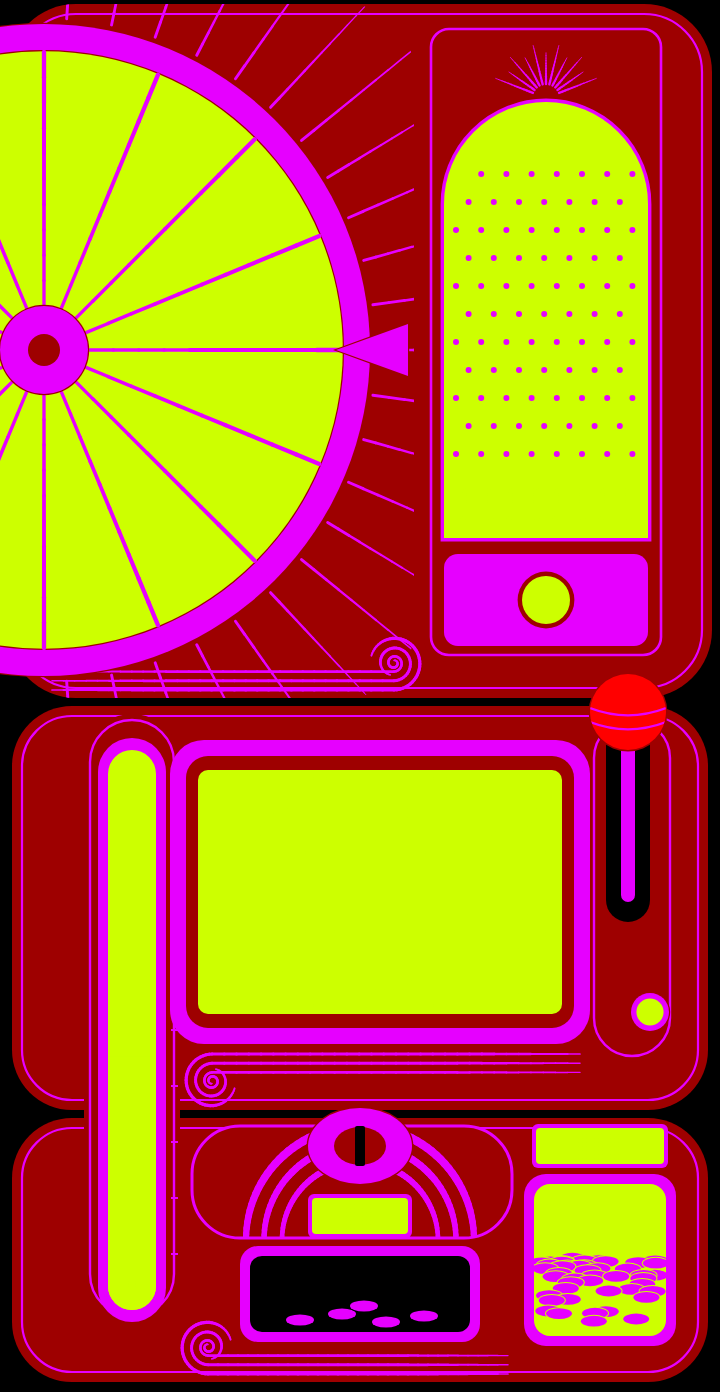
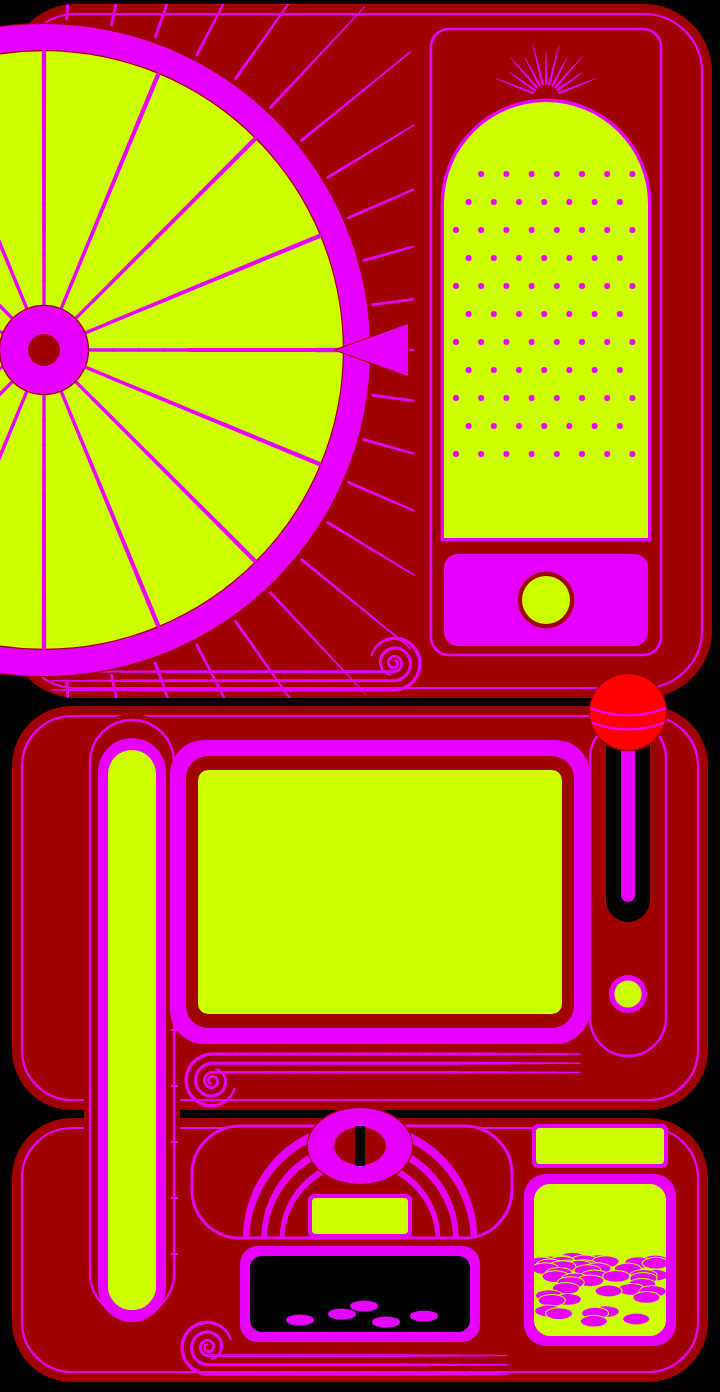
Алчность, эскиз v2: колонна рычага, паз, шар и лампа готовности на одной оси (лампа съехала вправо на 11)
Claude-Session: https://claude.ai/code/session_014b7WGtUGzHT9duRP7NWniS

Changed region(s): [[0.7944, 0.5251, 0.9472, 0.7723]]

diff --git a/tools/greed-lux-sketch/machine.py b/tools/greed-lux-sketch/machine.py
@@ -68,7 +68,9 @@ def add_poly(pts, rise, blur):
     HM += rise * gaussian_filter(np.asarray(im, np.float32) / 255, blur)
 
 T1, T2, T3 = (4, -55, 356, 292, 34), (6, 296, 354, 498, 30), (6, 502, 354, 634, 30)
-PIL_L, COL_R = (42, 300, 90, 604, 24), (294, 300, 338, 474, 22)
+# колонна рычага, паз, шар и лампа готовности — на одной оси x 314
+# (игрок: лампа под рычагом съехала — была на 325 при рычаге на 314)
+PIL_L, COL_R = (42, 300, 90, 604, 24), (292, 300, 336, 474, 22)
 WH = (22, 118, 150)
 PB = (212, -46, 334, 274, 12)
 BEZ, SCRR = (85, 313, 295, 465, 17), (99, 328, 281, 450, 5)
@@ -76,7 +78,7 @@ INS = (96, 506, 256, 562, 24)
 SN = (180, 516, 26, 19)
 BET, BAL = (156, 542, 204, 560), (268, 507, 332, 525)
 TRAY, PIG = (120, 566, 240, 614, 9), (262, 530, 338, 616, 11)
-LAMP, BALL, BTN = (325, 449), (314, 299, 19), (273, 243, 12)
+LAMP, BALL, BTN = (314, 440), (314, 299, 19), (273, 243, 12)   # лампа — посередине между низом паза (404) и низом колонны (474)
 MET = (54, 318, 78, 598)
 
 def arch_sd():
